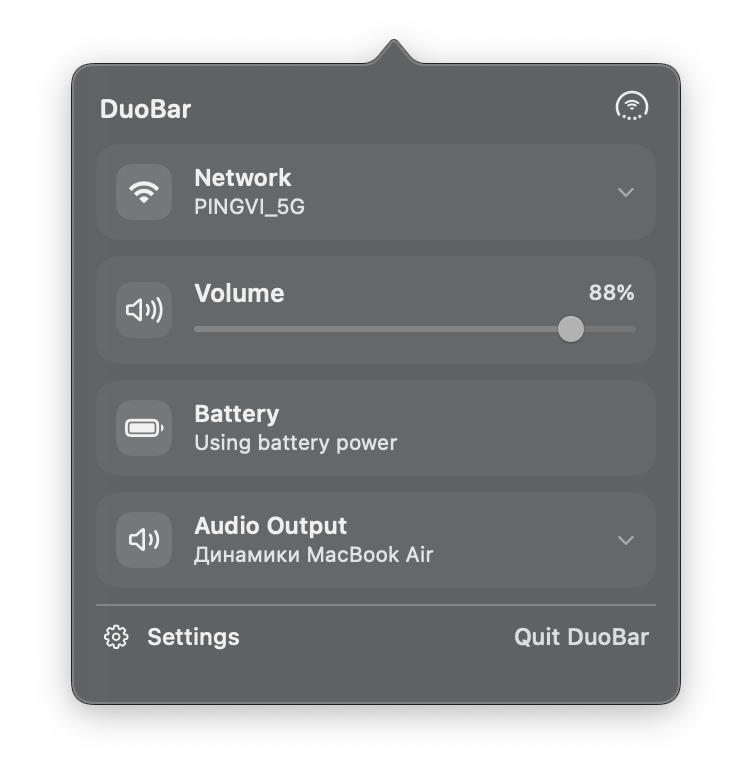
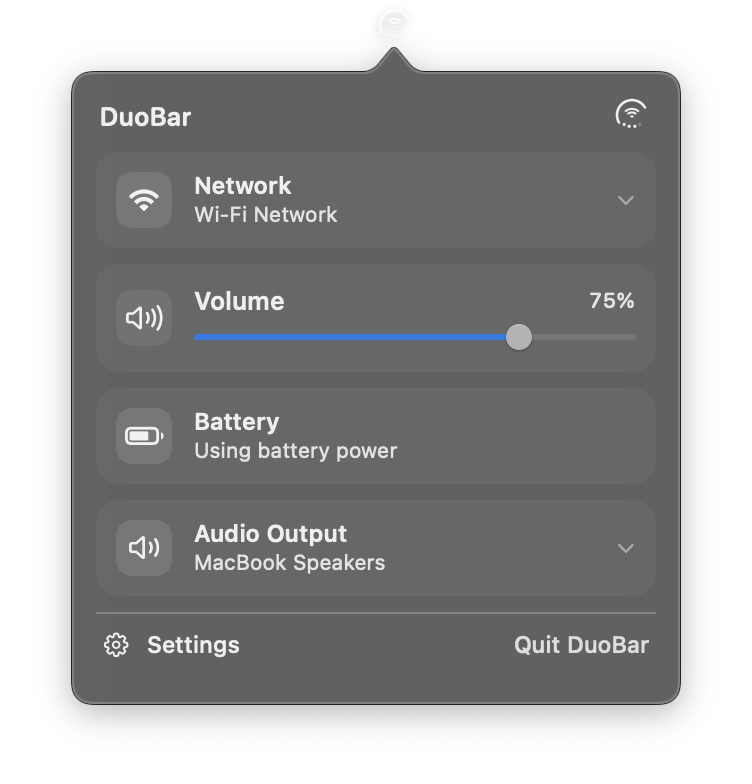
Update appcast for v1.2.1 319acbcf019379313cec7dbe3ded5a823eae94a0

diff --git a/index.html b/index.html
@@ -2,7 +2,7 @@
 <html lang="en">
 <head>
   <meta charset="utf-8">
-  <title>DuoBar — The Reimagined macOS Menu Bar Status Indicator</title>
+  <title>ReDuoBar — The Reimagined macOS Menu Bar Status Indicator</title>
   <meta name="viewport" content="width=device-width, initial-scale=1">
   <meta name="description" content="One compact macOS menu bar glyph combining Battery, Network, and Volume with interactive Wi-Fi and audio switching, frosted-glass settings, and Sparkle auto-updates.">
   <link rel="icon" type="image/png" href="assets/app-icon.png">
@@ -685,16 +685,16 @@
   <header>
     <div class="nav-container">
       <a href="#" class="brand">
-        <img src="assets/app-icon.png" alt="DuoBar Logo">
-        <span>DuoBar</span>
+        <img src="assets/app-icon.png" alt="ReDuoBar Logo">
+        <span>ReDuoBar</span>
       </a>
       <ul class="nav-links">
         <li><a href="#features">Features</a></li>
         <li><a href="#comparison">Comparison</a></li>
         <li><a href="#build">Build</a></li>
         <li><a href="appcast.xml">Appcast Feed</a></li>
-        <li><a href="https://github.com/vibe2code/DuoBar" target="_blank">GitHub</a></li>
-        <li><a href="https://github.com/vibe2code/DuoBar/releases/latest" class="btn-nav-download">Download</a></li>
+        <li><a href="https://github.com/vibe2code/ReDuoBar" target="_blank">GitHub</a></li>
+        <li><a href="https://github.com/vibe2code/ReDuoBar/releases/latest" class="btn-nav-download">Download</a></li>
       </ul>
     </div>
   </header>
@@ -711,11 +711,11 @@
       Battery, Network, and Volume unified into an elegant, native macOS indicator.
     </p>
     <div class="hero-actions">
-      <a href="https://github.com/vibe2code/DuoBar/releases/latest" class="btn-primary">
+      <a href="https://github.com/vibe2code/ReDuoBar/releases/latest" class="btn-primary">
         <svg width="18" height="18" viewBox="0 0 24 24" fill="currentColor"><path d="M12 2C6.48 2 2 6.48 2 12s4.48 10 10 10 10-4.48 10-10S17.52 2 12 2zm-1 14.5v-9l6 4.5-6 4.5z"/></svg>
         Download Latest Release
       </a>
-      <a href="https://github.com/vibe2code/DuoBar" class="btn-secondary" target="_blank">
+      <a href="https://github.com/vibe2code/ReDuoBar" class="btn-secondary" target="_blank">
         <svg width="18" height="18" viewBox="0 0 24 24" fill="currentColor"><path d="M12 0C5.37 0 0 5.37 0 12c0 5.31 3.435 9.795 8.205 11.385.6.105.825-.255.825-.57 0-.285-.015-1.23-.015-2.235-3.015.555-3.795-.735-4.035-1.41-.135-.345-.72-1.41-1.23-1.695-.42-.225-1.02-.78-.015-.795.945-.015 1.62.87 1.845 1.23 1.08 1.815 2.805 1.305 3.495.99.105-.78.42-1.305.765-1.605-2.67-.3-5.46-1.335-5.46-5.925 0-1.305.465-2.385 1.23-3.225-.12-.3-.54-1.53.12-3.18 0 0 1.005-.315 3.3 1.23.96-.27 1.98-.405 3-.405s2.04.135 3 .405c2.295-1.56 3.3-1.23 3.3-1.23.66 1.65.24 2.88.12 3.18.765.84 1.23 1.905 1.23 3.225 0 4.605-2.805 5.625-5.475 5.925.435.375.81 1.095.81 2.22 0 1.605-.015 2.895-.015 3.3 0 .315.225.69.825.57A12.02 12.02 0 0024 12c0-6.63-5.37-12-12-12z"/></svg>
         View on GitHub
       </a>
@@ -731,7 +731,7 @@
     <div class="sim-bar">
       <div class="sim-left-menus">
         <span class="sim-apple"></span>
-        <span class="sim-app-name">DuoBar</span>
+        <span class="sim-app-name">ReDuoBar</span>
         <span class="sim-menu-item">File</span>
         <span class="sim-menu-item">Edit</span>
         <span class="sim-menu-item">View</span>
@@ -741,7 +741,7 @@
 
       <div class="sim-tray">
         <!-- Authentic DuoBar 3-in-1 Status Item -->
-        <div class="sim-duobar-item active" id="simDuoBarItem" onclick="togglePopover()" title="Click to open/close DuoBar Popover">
+        <div class="sim-duobar-item active" id="simDuoBarItem" onclick="togglePopover()" title="Click to open/close ReDuoBar Popover">
           <svg id="simGlyphSvg" width="28" height="28" viewBox="0 0 32 32" class="sim-glyph">
             <!-- Outer Ring Background Track (120.2° gap at the bottom) -->
             <circle cx="16" cy="14.8" r="11.2" fill="none" stroke="rgba(255,255,255,0.22)" stroke-width="2.3" stroke-linecap="round" stroke-dasharray="46.88 23.49" transform="rotate(150.1 16 14.8)" />
@@ -782,7 +782,7 @@
     <div class="sim-stage">
       <div class="sim-popover" id="simPopover">
         <div class="sim-popover-header">
-          <span>DuoBar</span>
+          <span>ReDuoBar</span>
           <span class="sim-badge" id="simPopoverStatus">Active</span>
         </div>
 
@@ -852,7 +852,7 @@
 
         <!-- Popover Footer -->
         <div class="sim-popover-footer">
-          <span class="sim-footer-btn" onclick="alert('DuoBar Settings window with live simulated menu bar preview, scaling controls, and visual effects.')">⚙ Settings</span>
+          <span class="sim-footer-btn" onclick="alert('ReDuoBar Settings window with live simulated menu bar preview, scaling controls, and visual effects.')">⚙ Settings</span>
           <span class="sim-footer-btn" onclick="togglePopover()">Close ✕</span>
         </div>
       </div>
@@ -867,7 +867,7 @@
       <button class="state-btn" onclick="setSimState('ethernet')">Wired Ethernet</button>
       <button class="state-btn" onclick="setSimState('offline')">Offline</button>
     </div>
-    <div class="sim-hint">💡 Click the DuoBar icon in the menu bar to open/close the popover • Drag volume slider to see 4 dots update live • Toggle Wi-Fi power directly</div>
+    <div class="sim-hint">💡 Click the ReDuoBar icon in the menu bar to open/close the popover • Drag volume slider to see 4 dots update live • Toggle Wi-Fi power directly</div>
   </div>
 
   <!-- Showcase Cards -->
@@ -883,7 +883,7 @@
         <h3>📶 Interactive Wi-Fi & Audio Switchers</h3>
         <p>No more clicking through System Settings. Scan Wi-Fi networks in real-time with signal bars and password prompts, and switch audio output devices across Core Audio with one tap.</p>
         <div class="showcase-img-wrap">
-          <img src="assets/duobar-popover.png" alt="DuoBar Popover in English" width="340">
+          <img src="assets/duobar-popover.png" alt="ReDuoBar Popover in English" width="340">
         </div>
       </div>
 
@@ -892,7 +892,7 @@
         <h3>🪟 Frosted Glass macOS Settings</h3>
         <p>Crafted with native <code>NSVisualEffectView</code> vibrant translucency and <code>.ultraThinMaterial</code> cards. Features live menu bar glyph simulation and granular scaling controls.</p>
         <div class="showcase-img-wrap">
-          <img src="assets/duobar-settings.png" alt="DuoBar Settings in English" width="460">
+          <img src="assets/duobar-settings.png" alt="ReDuoBar Settings in English" width="460">
         </div>
       </div>
     </div>
@@ -901,7 +901,7 @@
   <!-- Comparison Table Section -->
   <section class="comparison-section" id="comparison">
     <div class="section-header">
-      <h2>Why Modern DuoBar Stands Apart</h2>
+      <h2>Why ReDuoBar Stands Apart</h2>
       <p>A feature-by-feature comparison against the original baseline.</p>
     </div>
 
@@ -911,7 +911,7 @@
           <tr>
             <th class="col-feature">Capability</th>
             <th class="col-orig">Original DuoBar (v1.0.0)</th>
-            <th class="col-modern">Modern DuoBar (vibe2code)</th>
+            <th class="col-modern">ReDuoBar (vibe2code)</th>
           </tr>
         </thead>
         <tbody>
@@ -998,7 +998,7 @@
   <section class="build-section" id="build">
     <div class="section-header">
       <h2>Build from Source</h2>
-      <p>Package the entire standalone <code>DuoBar.app</code> without opening Xcode.</p>
+      <p>Package the entire standalone <code>ReDuoBar.app</code> without opening Xcode.</p>
     </div>
 
     <div class="terminal-box">
@@ -1008,27 +1008,27 @@
         <div class="dot dot-green"></div>
       </div>
       <code><span class="terminal-comment"># Clone the repository</span></code>
-      <code>git clone https://github.com/vibe2code/DuoBar.git</code>
-      <code>cd DuoBar</code>
+      <code>git clone https://github.com/vibe2code/ReDuoBar.git</code>
+      <code>cd ReDuoBar</code>
       <br>
-      <code><span class="terminal-comment"># Build, bundle, and ad-hoc sign DuoBar.app</span></code>
+      <code><span class="terminal-comment"># Build, bundle, and ad-hoc sign ReDuoBar.app</span></code>
       <code>chmod +x ./tools/build-app.sh</code>
       <code>./tools/build-app.sh</code>
       <br>
-      <code><span class="terminal-comment"># Output ready in build/DuoBar.app</span></code>
-      <code>open build/DuoBar.app</code>
+      <code><span class="terminal-comment"># Output ready in build/ReDuoBar.app</span></code>
+      <code>open build/ReDuoBar.app</code>
     </div>
   </section>
 
   <!-- Footer -->
   <footer>
     <div class="footer-links">
-      <a href="https://github.com/vibe2code/DuoBar">GitHub Repository</a>
-      <a href="https://github.com/vibe2code/DuoBar/releases">Releases</a>
+      <a href="https://github.com/vibe2code/ReDuoBar">GitHub Repository</a>
+      <a href="https://github.com/vibe2code/ReDuoBar/releases">Releases</a>
       <a href="appcast.xml">Sparkle Appcast Feed</a>
       <a href="LICENSE">MIT License</a>
     </div>
-    <p>DuoBar is maintained and expanded by <a href="https://github.com/vibe2code">vibe2code</a>. Original concept inspired by Mikeli7666.</p>
+    <p>ReDuoBar is maintained and expanded by <a href="https://github.com/vibe2code">vibe2code</a>. Original concept inspired by Mikeli7666.</p>
   </footer>
 
   <script>

diff --git a/assets/README.md b/assets/README.md
@@ -1,8 +1,11 @@
-# DuoBar Assets
+# ReDuoBar Assets
 
-Visual media assets for DuoBar documentation, release notes, and GitHub showcases:
+Visual media assets for ReDuoBar documentation, release notes, and GitHub showcases:
 
 - **`app-icon.png`**: 256×256 Retina application icon.
-- **`duobar-popover.png`**: Interactive menu bar popover showcasing live Wi-Fi network picker, audio output device switcher, volume slider, and battery status.
-- **`duobar-settings.png`**: Native macOS translucent Settings window with frosted glass (`NSVisualEffectView`) and `.ultraThinMaterial` cards.
-- **`duobar-about.png`**: About dialog featuring app version details, license information, and Sparkle auto-update integration.
+- **`duobar-popover.png`**: Clean interactive menu bar popover showcasing live Wi-Fi status, audio output device, volume slider, and battery status in English.
+- **`duobar-wifi-picker.png`**: Expanded Wi-Fi network picker with live nearby networks, signal strength tiers, security lock badges, and 1-click Wi-Fi Power toggle.
+- **`duobar-audio-picker.png`**: Interactive Audio Output switcher with Core Audio device list, active output indicator, and AirPods support.
+- **`duobar-general.png`**: Native macOS Settings window (General tab) featuring Launch at login and Open on Hover interaction switches.
+- **`duobar-settings.png`**: Native macOS Settings window (Menu Bar tab) with live simulated menu bar preview, icon size slider, and animation options.
+- **`duobar-about.png`**: Settings window (About tab) displaying Version 1.2.0 • Build 4, license information, GitHub shortcut, and Sparkle update checker.
